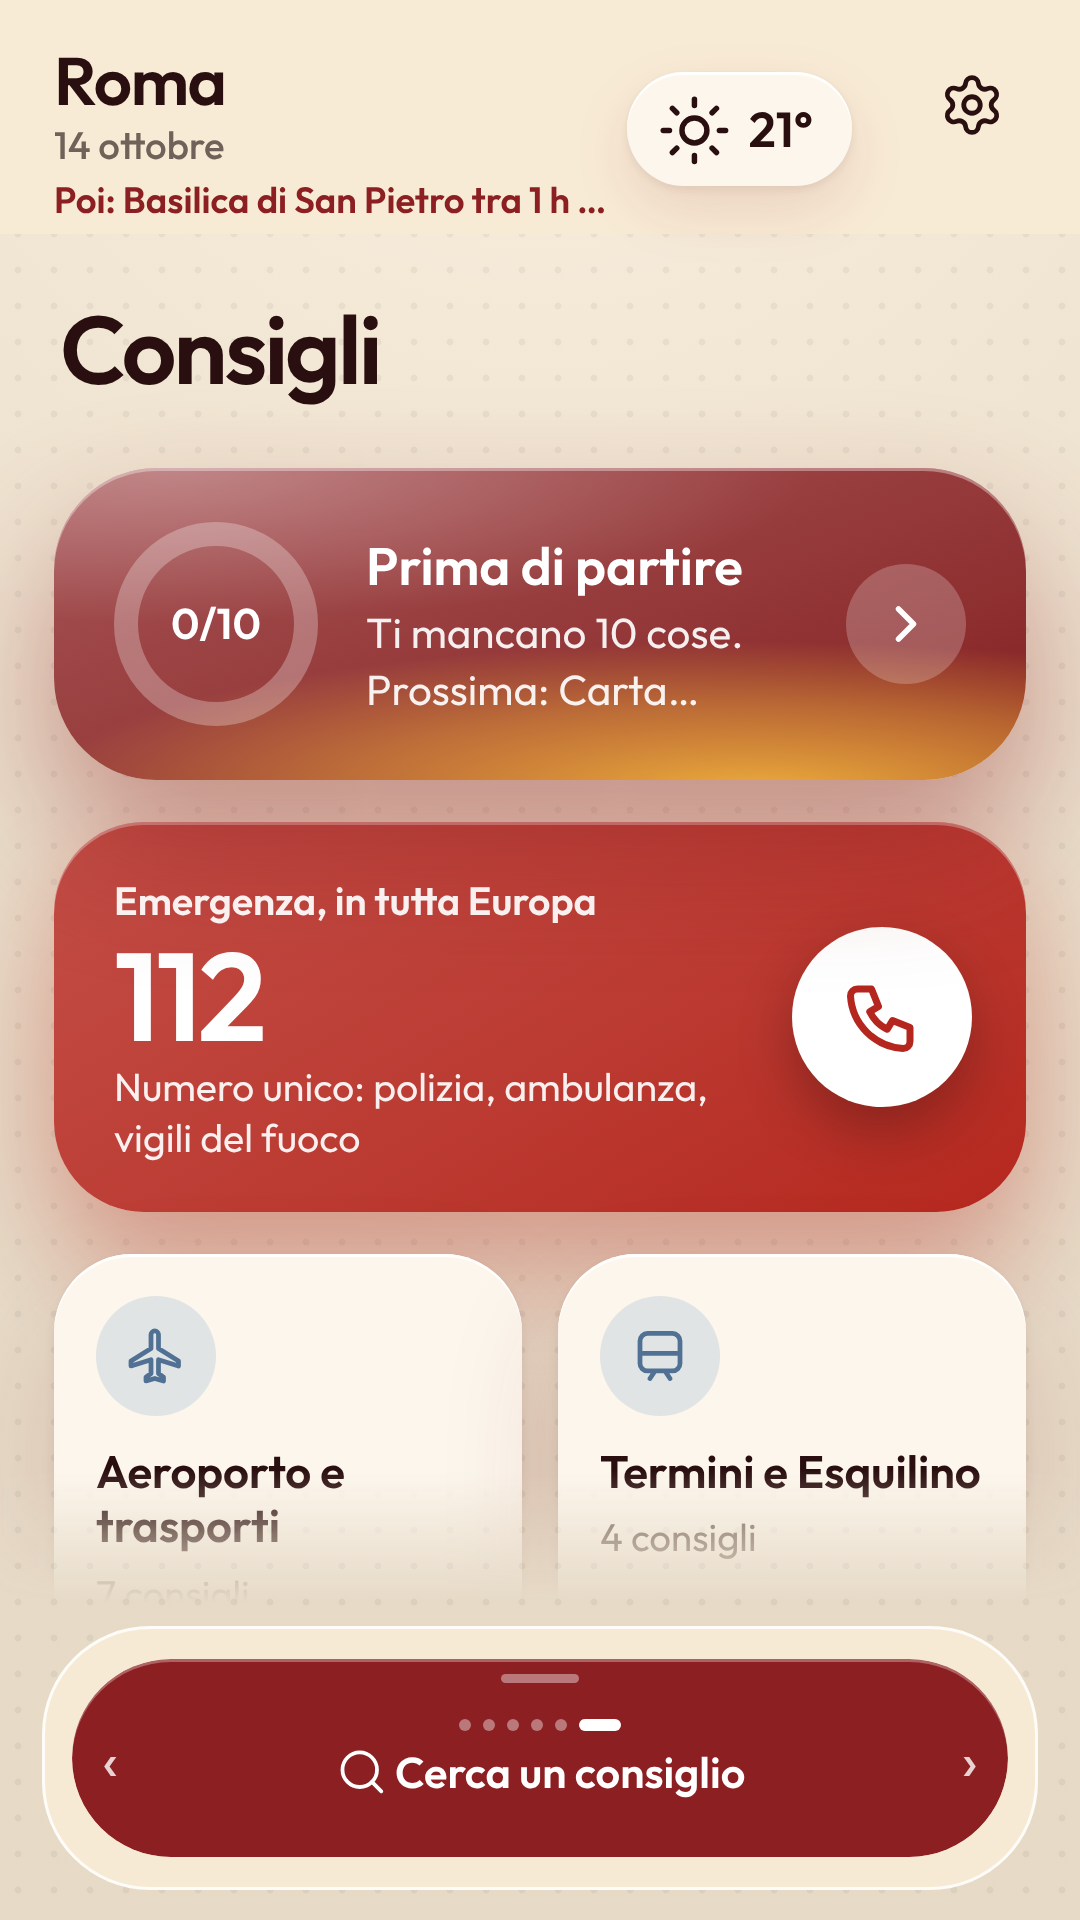
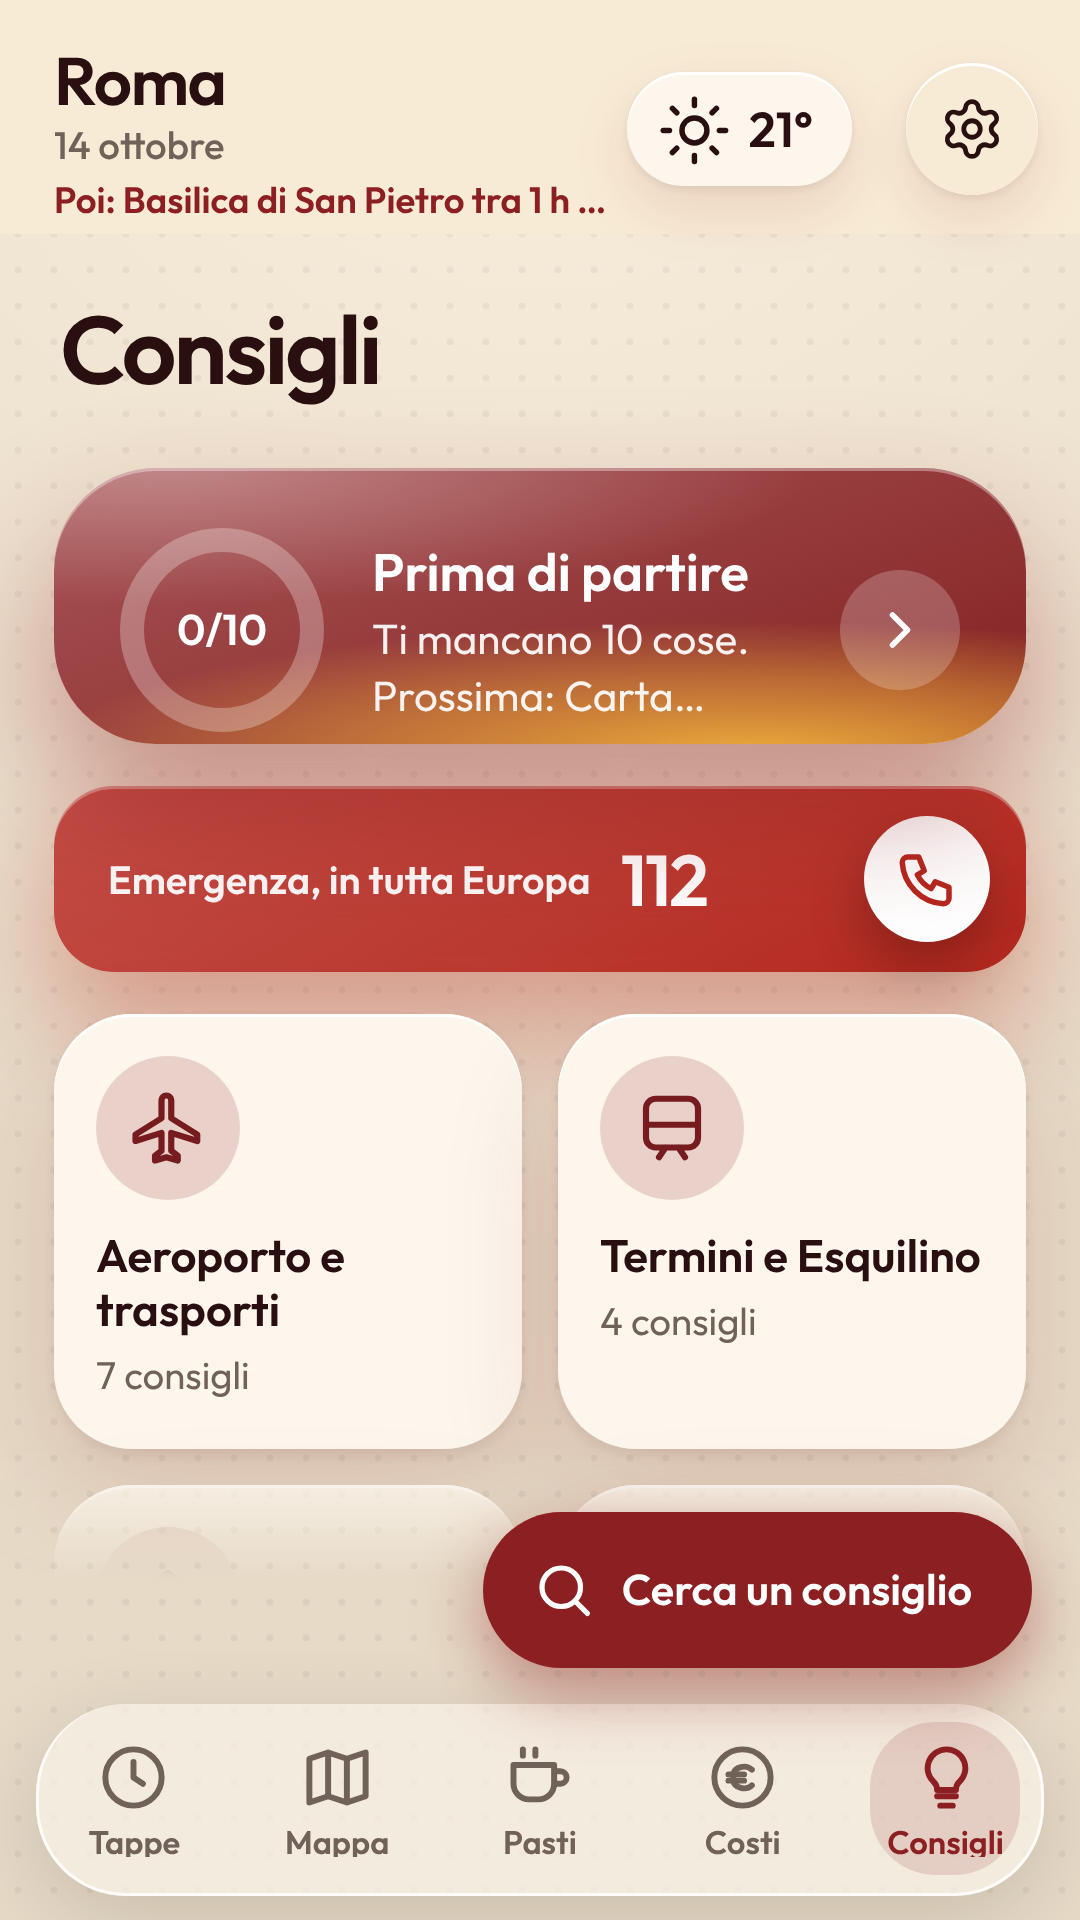
Kit stampa e scheda Play aggiornati: nuove schermate, copertina e testi per l'app a cinque sezioni
Claude-Session: https://claude.ai/code/session_01PSx2DqrogtknUJfdR9oxFd

diff --git a/press/kit-stampa.md b/press/kit-stampa.md
@@ -1,6 +1,6 @@
 # Viaticum · Kit stampa
 
-> Da completare prima dell'uso: link a Google Play, indirizzo email di contatto, nome dell'autore.
+> Da completare prima dell'uso: solo il link a Google Play, quando l'app è pubblicata.
 > I campi da riempire sono tra parentesi quadre.
 
 ## In una riga
@@ -10,19 +10,23 @@ Viaticum è l'app che organizza il tuo viaggio tappa dopo tappa, anche senza ret
 Il tuo viaggio, tappa dopo tappa. Anche senza rete.
 
 ## Descrizione breve (circa 50 parole)
-Viaticum prepara un itinerario giorno per giorno, con tappe, orari, spostamenti, pasti e spese condivise. Funziona anche senza connessione, non ha pubblicità e non richiede un account. Disponibile gratis su Android e come app web per iPhone e computer.
+Viaticum prepara un itinerario giorno per giorno con tappe, orari, spostamenti, pasti e spese divise tra amici. Durante il viaggio ti dice dove sei nella giornata e cosa viene dopo. Funziona anche senza connessione, non ha pubblicità e non richiede un account. Gratis su Android e come app web per iPhone e computer.
 
-## Descrizione lunga (circa 150 parole)
+## Descrizione lunga (circa 170 parole)
 Viaticum nasce da un'esigenza semplice: avere tutto il viaggio in un posto solo, che funzioni anche quando il telefono non prende. Scegli la città, le date e gli orari dei voli, e l'app costruisce un itinerario giorno per giorno con tappe, tempi di spostamento, consigli su cosa vedere e dove mangiare. Ci sono 44 guide di città, e se ne possono creare di nuove per ogni viaggio.
 
-Nel corso del viaggio l'app tiene il conto delle spese e le divide tra amici, mostra il meteo, ricorda cosa controllare prima di partire e permette di cercare al volo una tappa, un locale o un consiglio. Una barra in basso cambia sezione con un gesto: tocco per l'azione, scorrimento di lato per cambiare, pressione prolungata per vederle tutte.
+Durante il viaggio una scheda "Adesso" mostra la tappa in corso, quanto manca alla prossima e un tasto "Portami lì" verso la tua app di mappe. Le spese si registrano in pochi secondi, anche in valuta diversa, si dividono tra amici e si confrontano con il budget previsto. A fine viaggio l'app prepara un riepilogo da condividere.
+
+Cinque sezioni sempre a portata di pollice: Tappe, Mappa, Pasti, Costi, Consigli. Il tasto in basso a destra cambia con la pagina; tenendolo premuto si cerca nel viaggio o si torna ai viaggi.
 
 Nessuna pubblicità, nessuna vendita dei dati, nessun account obbligatorio: i viaggi restano sul telefono.
 
 ## Punti di forza
 - Itinerario giornaliero con orari, percorsi e "Portami lì" verso l'app di mappe.
+- Scheda "Adesso": la tappa in corso, quanto resta e cosa viene dopo.
 - Funziona senza rete: l'itinerario, i costi, le spese e le liste restano disponibili.
-- Spese divise tra amici, con il conto che si fa da solo.
+- Spese divise tra amici, con il conto che si fa da solo, confrontate con il previsto.
+- Riepilogo del viaggio da condividere come immagine.
 - 44 guide di città, gite in giornata incluse, e viaggi nuovi in tre tocchi.
 - Gratuita, senza pubblicità, senza account obbligatorio.
 - Android (Google Play) e web app per iPhone e computer.
@@ -37,32 +41,33 @@ Nessuna pubblicità, nessuna vendita dei dati, nessun account obbligatorio: i vi
 - Privacy: dati sul dispositivo, accesso facoltativo. Informativa: https://noname21-spec.github.io/viatico/privacy.html
 - Sito / web app: https://noname21-spec.github.io/viatico/
 - Google Play: [link da inserire quando l'app è pubblicata]
-- Contatto: [email]
-- Autore: [nome]
+- Contatto: devincentimatteo@gmail.com
+- Autore: Matteo De Vincenti
 
 ## La storia (per post e interviste)
 Viaticum è nata partendo da due gite in giornata, a Barcellona e a Parigi, organizzate con piccole app web fatte a mano. Il piano funzionava, ma ogni viaggio richiedeva di rifare tutto. L'idea è stata di trasformarle in un'unica app che chiunque possa usare per un viaggio qualsiasi, con una regola: deve funzionare quando serve, cioè in giro, con poca batteria e a volte senza rete.
 
 ## Post pronti da adattare
 **Annuncio breve**
-Ho costruito Viaticum, un'app per organizzare i viaggi tappa dopo tappa: itinerario, voli, pasti e spese divise tra amici. Funziona anche senza rete e non ha pubblicità. È gratis. [link]
+Ho costruito Viaticum, un'app per organizzare i viaggi tappa dopo tappa: itinerario, pasti e spese divise tra amici. Ti dice anche cosa stai facendo adesso e cosa viene dopo. Funziona senza rete e non ha pubblicità. È gratis. [link]
 
 **Per i gruppi di viaggio (tono "chiedo un parere")**
 Ciao a tutti! Ho creato un'app gratuita per organizzare un viaggio o una gita in giornata: itinerario con orari, spese di gruppo e consigli su dove mangiare. Mi piacerebbe sapere cosa vi manca o cosa cambiereste. [link]
 
 **Per Instagram e TikTok (didascalia)**
-Viaggio in 3 tocchi ✈ Itinerario, spese divise e tutto anche senza rete. Gratis, senza pubblicità. Link in bio. #viaggi #travelapp #itinerario #interrail #gitainGiornata
+Viaggio in 3 tocchi. Itinerario, spese divise e tutto anche senza rete. Gratis, senza pubblicità. Link in bio. #viaggi #travelapp #itinerario #interrail #gitaingiornata
 
 ## Idee per i video (15–30 secondi)
-1. Il ventaglio: tieni premuto sulla barra e scegli la sezione.
+1. La scheda "Adesso": cammini per Roma e l'app ti dice cosa c'è dopo.
 2. Gita in giornata pianificata in 2 minuti.
 3. Spese divise tra amici: aggiungi una spesa e vedi chi deve cosa.
 4. Modalità aereo: cosa funziona senza internet.
-5. Prima e dopo: un viaggio organizzato con note sparse contro lo stesso viaggio con Viaticum.
+5. Il riepilogo di fine viaggio: quanto avete speso rispetto al previsto, da condividere.
+6. Prima e dopo: un viaggio organizzato con note sparse contro lo stesso viaggio con Viaticum.
 
 ## Immagini
-La cartella `immagini/` contiene il logo (512×512), la copertina (1024×500) e cinque schermate (1080×1920).
-Usa le immagini così come sono; non cambiare i colori del logo.
+La cartella `immagini/` contiene il logo (512×512), la copertina (1024×500) e cinque schermate (1080×1920): itinerario, elenco tappe, pasti, spese, consigli.
+Le schermate mostrano una gita a Roma di esempio. Usa le immagini così come sono; non cambiare i colori del logo.
 
 ## Cosa non dire
 - Non promettere orari o prezzi esatti: sono indicativi.

diff --git a/play/scheda-it.md b/play/scheda-it.md
@@ -4,7 +4,7 @@
 Viaticum: guida di viaggio
 
 ## Descrizione breve (max 80 caratteri)
-Itinerario, voli, mappa, pasti e spese del tuo viaggio, anche senza rete.
+Itinerario, mappa, pasti e spese del tuo viaggio, anche senza rete.
 
 ## Descrizione completa (max 4000 caratteri)
 Viaticum è il compagno per organizzare e vivere un viaggio, dal momento in cui scegli la città fino all'ultimo giorno.
@@ -13,16 +13,17 @@ Scegli la destinazione, le date e gli orari dei voli: Viaticum prepara un itiner
 
 COSA PUOI FARE
 • Itinerario giornaliero con orari e percorsi: "Portami lì" apre la tappa nella tua app di mappe.
-• Voli e aeroporti: orari, imbarco e margine di tempo per non rischiare di perdere il volo.
+• Scheda "Adesso": la tappa in corso, quanto manca alla prossima e cosa viene dopo.
+• Voli e aeroporti dentro le Tappe: orari, imbarco e margine di tempo per non rischiare di perdere il volo.
 • Mappa del viaggio con la tua posizione, percorsi a piedi e punti di interesse.
 • Pasti e locali: dove mangiare vicino alla tappa, con le specialità del posto.
-• Spese: registra quanto spendi, dividi i conti tra amici e vedi il riepilogo a persona.
+• Spese: registra quanto spendi, anche in valuta diversa, dividi i conti tra amici e confrontali con il previsto. A fine viaggio condividi il riepilogo.
 • Lista "Prima di partire" con i controlli da fare nei giorni prima della partenza.
 • Meteo del momento e previsioni quando il viaggio si avvicina.
 • Cerca nel viaggio: trova al volo una tappa, un locale, un consiglio o una spesa.
 
 PENSATO PER ESSERE VELOCE
-• La barra in basso cambia sezione con un gesto: tocca per l'azione, scorri di lato per cambiare sezione, tieni premuto per vederle tutte.
+• Cinque sezioni sempre visibili in basso: Tappe, Mappa, Pasti, Costi, Consigli. Il tasto a destra cambia con la pagina; tienilo premuto per cercare nel viaggio o tornare ai viaggi.
 • Inizi un viaggio in tre tocchi con le date rapide ("questo weekend", "gita in giornata").
 • Funziona senza account: i tuoi dati restano sul telefono. Se vuoi, puoi accedere per ritrovare i viaggi su un altro dispositivo.
 
@@ -42,7 +43,7 @@ Email: devincentimatteo@gmail.com
 Sito / pagina privacy: https://noname21-spec.github.io/viatico/privacy.html
 
 ## Note della versione (max 500 caratteri)
-Prima versione: itinerari per 44 città, voli, mappa, pasti, spese condivise, lista «Prima di partire» e uso senza rete.
+Prima versione: itinerari per 44 città, scheda «Adesso», mappa, pasti, spese condivise con riepilogo, lista «Prima di partire» e uso senza rete.
 
 ## Immagini richieste
 - Icona 512×512: icon-512.png (nella radice del progetto)
